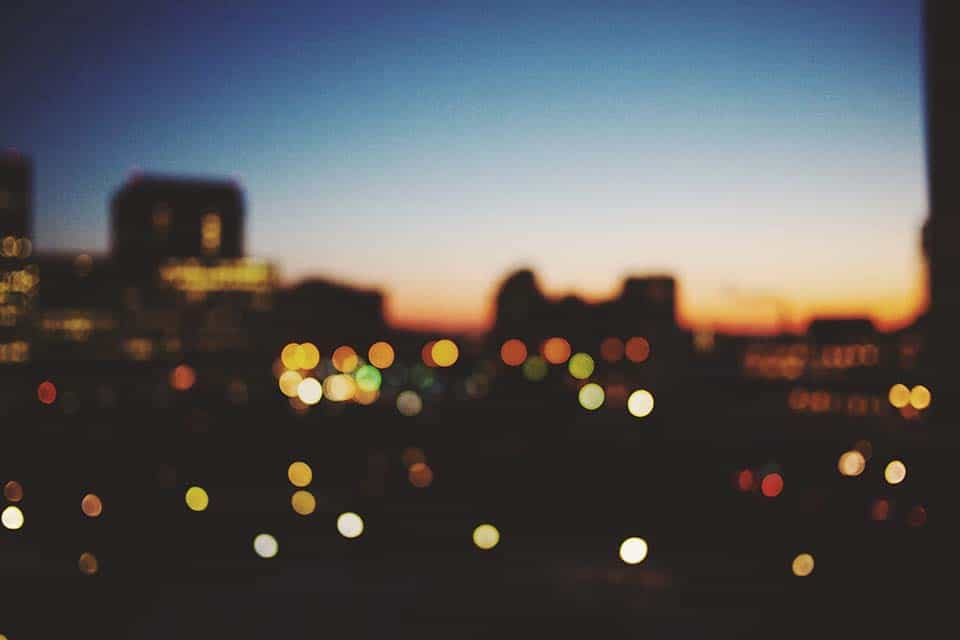
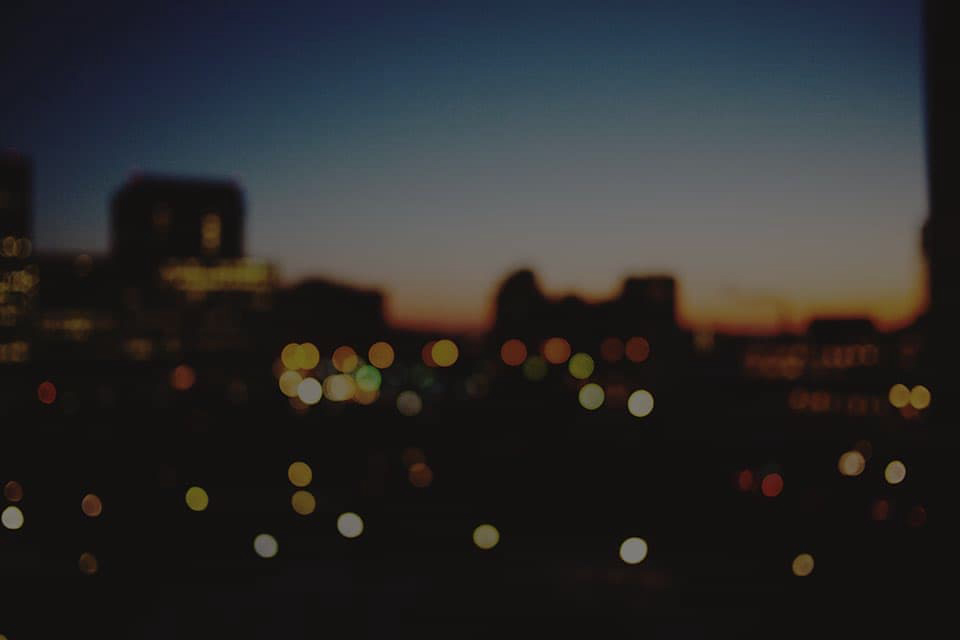
Updated sliders
Increased text contrast and edited copy

diff --git a/index.html b/index.html
@@ -114,30 +114,27 @@
 
 							<div class="item active">
 								<a href="articles.html#iom">
-								<img src="images/mobile.jpg" alt="Person using mobile phone" style="width:100%; border-radius: 4px">
+								<img src="images/mobile_slider.jpg" alt="Person using mobile phone" style="width:100%; border-radius: 4px">
 								<div class="carousel-caption">
-										<h3 style="color: #fff;">ITSO on mobile</h3>
-										<p>Unicard are the engine behind ITSO on mobile, enabling ITSO tickets on Android.</p>									
+										<p style="font-size: 1.5rem;">Unicard are the engine behind ITSO on mobile</p>									
 								</div>
 								</a>
 							</div>
 					
 							<div class="item">
 								<a href="articles.html#sam">
-								<img src="images/bus.jpg" alt="Bus city long exposure light trails" style="width:100%; border-radius: 4px">
+								<img src="images/bus_slider.jpg" alt="Bus city long exposure light trails" style="width:100%; border-radius: 4px">
 								<div class="carousel-caption">
-									<h3 style="color: #fff;">SAM</h3>
-									p>Unicard was selected as HOPS Provider for the SAM managed service.</p>
+									<p style="font-size: 1.5rem;">Unicard are HOPS Provider for the SAM managed service</p>
 								</div>
 								</a>
 							</div>
 						
 							<div class="item">
 								<a href="articles.html#tfwm">
-								<img src="images/city.jpg" alt="Cityscape photograph" style="width:100%; border-radius: 4px">
+								<img src="images/city_slider.jpg" alt="Cityscape photograph" style="width:100%; border-radius: 4px">
 								<div class="carousel-caption">
-									<h3 style="color: #fff;">TfWM</h3>
-									<p>Unicard systems power West Midlands public transport operations.</p>
+									<p style="font-size: 1.5rem;">Unicard systems power West Midlands public transport operations</p>
 								</div>
 								</a>
 							</div>
